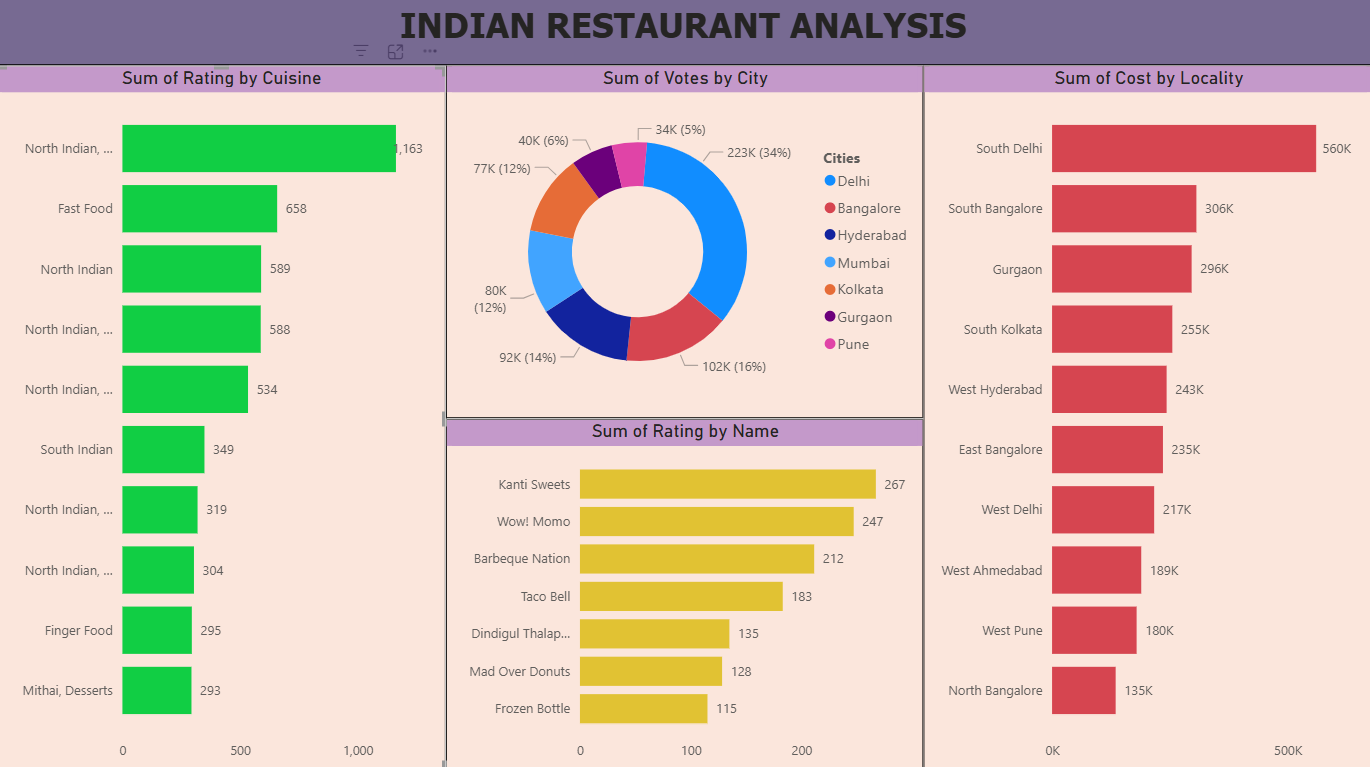
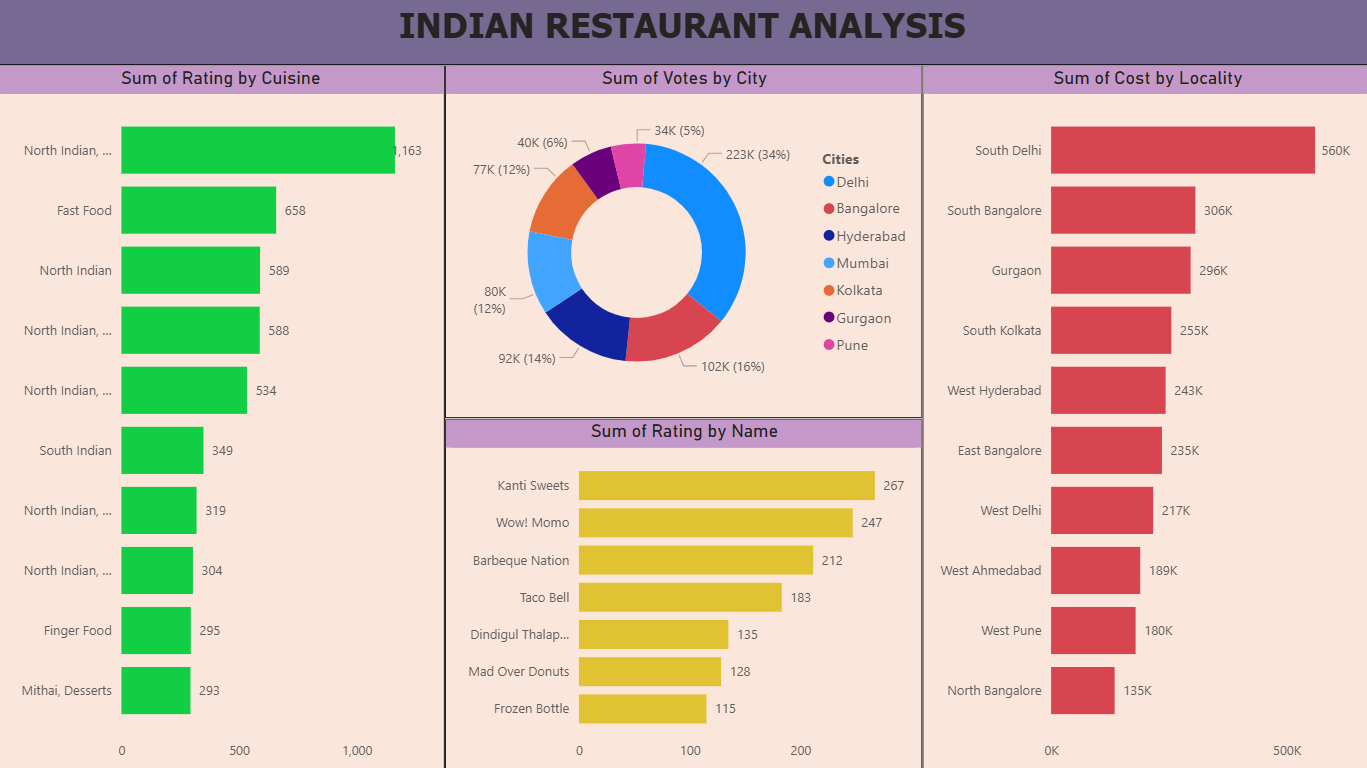
Minor updates

diff --git a/README.md b/README.md
@@ -1,27 +1,200 @@
-Hey everyone, below is a list of Data Analytics projects that I've created and documented. Feel free to take a look on it !
+\# 👋 Hey Everyone!
 
-# Data Analytics Projects
-- Data Analytics on Healthcare Sector
-- E-commerce Data Analysis
-- Indian Restaurant Data Analytics
-- Kisan AI in a glance
-- US Visa Acceptance Prediction
 
-#
-# GRIP Data Analytics and ML Projects (2nd Year Internship Projects)
-- Task 1 - Supervised ML
-- Task 2 - Unsupervised ML
-- Task 3 - EDA (Exploratory Data Analysis)
 
-#
-# Prodigy Infotech DS (Data Science) Internship
-- DS_01 - Data Analysis on Population Distribution
-- DS_02 - Data Cleaning and EDA : Exploring Relationships, Patterns And Trends
-- DS_03 - Decision Tree Classifier for Customer Purchase Prediction
-- DS_04 - Analyzing and visualizing sentiment patterns in social media data
-- DS_05 - Traffic Accidents Classifier using Python
+Below is a list of \*\*Data Analytics Projects\*\* that I've created and documented. Feel free to take a look at them!
 
-#
-# Sales Insights DA Project
-- I've used MySQL as the data source and Power BI for performing EDA, ETL, and data visualization.
-- This includes creating interactive dashboards to better understand the data in an engaging and insightful way.
+
+
+---
+
+
+
+\# 📊 Data Analytics Projects
+
+
+
+\## 🛒 E-Commerce Data Analysis  
+
+Analyzed e-commerce sales data to uncover trends, customer purchasing behavior, and product performance. Focused on revenue, profit, quantity sold, and category-level insights.
+
+
+
+!\[E-Commerce Data Analysis](E-Commerce%20Data%20Analysis.png)
+
+
+
+---
+
+
+
+\## 📊 Exploratory Data Analysis - Retail Project Part - 1  
+
+Performed exploratory data analysis on retail sales data to understand sales distribution, customer segments, and product category performance.
+
+
+
+!\[Exploratory Data Analysis - Retail Project Part - 1](Exploratory%20Data%20Analysis%20-%20Retail%20Project%20Part%20-%201.png)
+
+
+
+---
+
+
+
+\## 📊 Exploratory Data Analysis - Retail Project Part - 2  
+
+Extended the retail analysis with deeper insights into profitability, regional trends, and time-based sales performance.
+
+
+
+!\[Exploratory Data Analysis - Retail Project Part - 2](Exploratory%20Data%20Analysis%20-%20Retail%20Project%20Part%20-%202.png)
+
+
+
+---
+
+
+
+\## 🏥 Healthcare Sector in a glance  
+
+Analyzed healthcare data to evaluate patient trends, treatment patterns, and operational performance indicators.
+
+
+
+!\[Healthcare Sector in a glance](Healthcare%20Sector%20in%20a%20glance.png)
+
+
+
+---
+
+
+
+\## 🍽 Indian Restaurant Data Analytics  
+
+Explored restaurant data to analyze ratings, pricing patterns, cuisine performance, and customer preferences.
+
+
+
+!\[Indian Restaurant Data Analytics](Indian%20Restaurant%20Data%20Analytics.png)
+
+
+
+---
+
+
+
+\## 🌾 Kisan AI - Agriculture Sector in a glance  
+
+Developed analytics-driven insights for agricultural data, focusing on crop trends and productivity indicators.
+
+
+
+!\[Kisan AI - Agriculture Sector in a glance](Kisan%20AI%20-%20Agriculture%20Sector%20in%20a%20glance.png)
+
+
+
+---
+
+
+
+\## 🌍 Prodigy DS 01 – Population Distribution Analysis  
+
+Analyzed population distribution data to identify demographic patterns and regional variations.
+
+
+
+!\[Prodigy DS 01 (1)](Prodigy%20DS%2001%20(1).png)  
+
+!\[Prodigy DS 01 (2)](Prodigy%20DS%2001%20(2).png)  
+
+!\[Prodigy DS 01 (3)](Prodigy%20DS%2001%20(3).png)
+
+
+
+---
+
+
+
+\## 🧹 Prodigy DS 02 – Data Cleaning \& EDA  
+
+Performed data cleaning and exploratory data analysis to uncover relationships, patterns, and trends.
+
+
+
+!\[Prodigy DS 02](Prodigy%20DS%2002.png)
+
+
+
+---
+
+
+
+\## 🌳 Prodigy DS 03 – Decision Tree Classifier  
+
+Built a Decision Tree Classifier to predict customer purchasing behavior using machine learning techniques.
+
+
+
+!\[Prodigy DS 03 (1)](Prodigy%20DS%2003%20(1).png)  
+
+!\[Prodigy DS 03 (2)](Prodigy%20DS%2003%20(2).png)  
+
+!\[Prodigy DS 03 (3)](Prodigy%20DS%2003%20(3).png)
+
+
+
+---
+
+
+
+\## 💬 Prodigy DS 04 – Sentiment Analysis  
+
+Analyzed and visualized sentiment patterns in social media data to identify trends and behavioral insights.
+
+
+
+!\[Prodigy DS 04](Prodigy%20DS%2004.png)
+
+
+
+---
+
+
+
+\## 🚗 Prodigy DS 05 – Traffic Accidents Classifier  
+
+Developed a classifier to analyze traffic accident data and identify key contributing factors.
+
+
+
+!\[Prodigy DS 05](Prodigy%20DS%2005.png)
+
+
+
+---
+
+
+
+\## 💼 Sales EDA and Revenue Insights  
+
+Performed exploratory data analysis on sales data to evaluate revenue trends, profitability, and performance metrics.
+
+
+
+!\[Sales EDA and Revenue Insights](Sales%20EDA%20and%20Revenue%20Insights.png)
+
+
+
+---
+
+
+
+\## 🛂 US Visa Acceptance Data Analysis  
+
+Analyzed visa application data to understand approval trends and factors influencing acceptance rates.
+
+
+
+!\[US Visa Acceptance Data Analysis](US%20Visa%20Acceptance%20Data%20Analysis.png)
+
